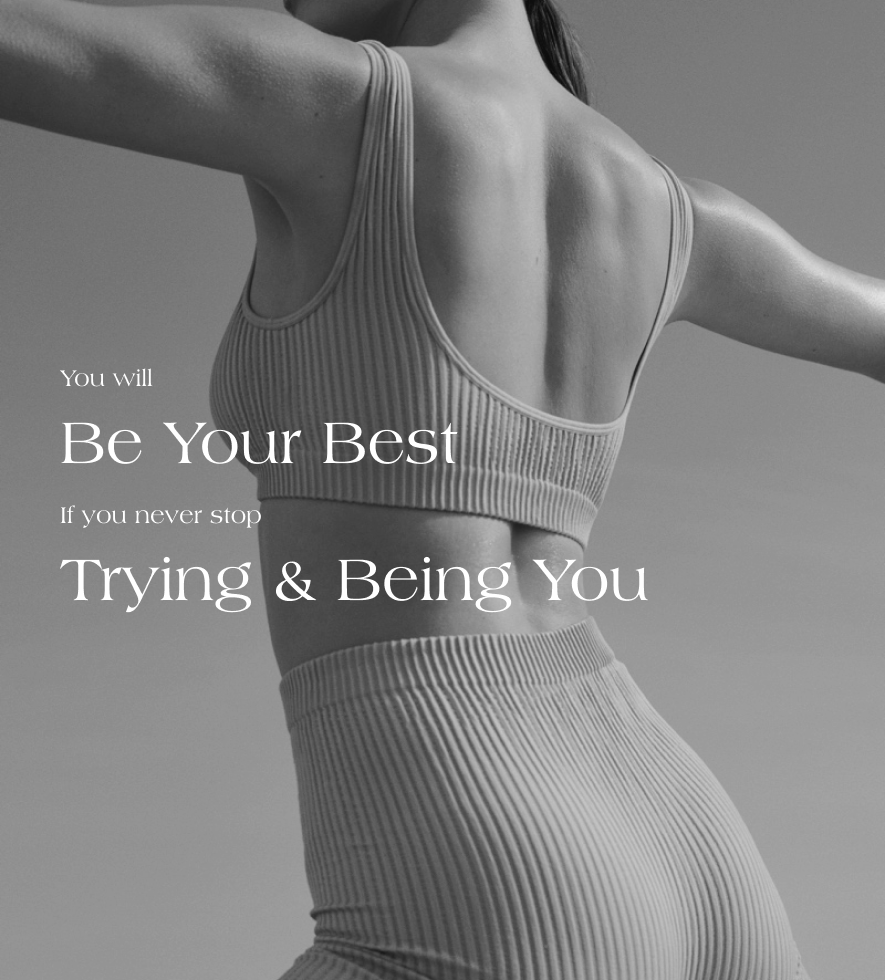
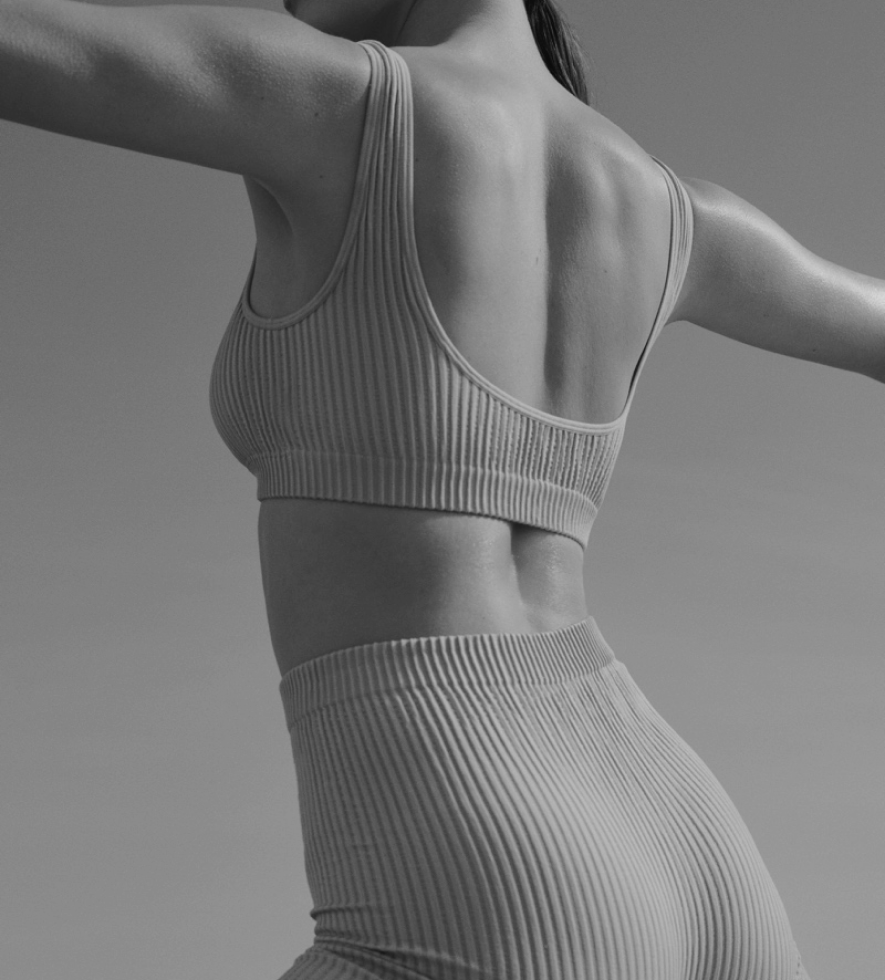
animation

diff --git a/src/pages/home.js b/src/pages/home.js
@@ -26,9 +26,9 @@ const Home = () => {
           <div className="row">
             <div className="col-8 d-flex">
               <img src="./images/home/logo-icon.svg" alt="logo" loading="lazy"/>
-              <div className="info-content heading_6">
+              <div className="info-content medium_text">
                 Hello, My name is
-                <div className="info-name heading_3">
+                <div className="info-name heading_4">
                   Nguyen Thuy Duong
                 </div>
               </div>
@@ -39,8 +39,10 @@ const Home = () => {
           </div>
         </div>
         <div className="page-element container-fluid showcase-img">
-            <div className="img-container sentence-container">
-              <img src="./images/home/Showcase.png" alt="showcase" loading="lazy"/>
+            <div className="img-container">
+              <div className="sentence-container">
+                <img src="./images/home/Showcase.png" alt="showcase" loading="lazy"/>
+              </div>
               <div className="img-text d-flex running-sentence">
                 <div className="heading_3">
                   Hello!
@@ -62,17 +64,17 @@ const Home = () => {
           <div className="container-fluid">
             <div className="row">
               <div className="col-5 d-flex">
-                <div className="info-content medium_text">
+                <div className="info-content body_text">
                   19/08/1998 __________
-                  <div className="info-lage heading_4">
+                  <div className="info-lage heading_5">
                     I’m UX/UI Designer
                   </div>
                 </div>
               </div>
-              <div className="col-1  medium_text">
+              <div className="col-1  body_text">
                 April/2023
               </div>
-              <div className="col-6 text-right medium_text">
+              <div className="col-6 text-right body_text">
                 Don't just imagine, create
               </div>
             </div>

diff --git a/src/pages/alio.js b/src/pages/alio.js
@@ -8,8 +8,14 @@ const Alio = () => {
                     <div className="col-6">
                         <img className="w-100" src="./images/Pj02_yoga/line1-01.png" alt="#" loading="lazy"/>
                     </div>
-                    <div className="col-6">
+                    <div className="col-6 r1-right">
                         <img className="w-100" src="./images/Pj02_yoga/line1-02.png" alt="#" loading="lazy"/>
+                        <div className="slide-content">
+                            <div className="heading_5">You will</div>
+                            <div className="heading_1">Be Your Best</div>
+                            <div className="heading_5">If you never stop</div>
+                            <div className="heading_1">Trying & Being You</div>
+                        </div>
                     </div>
                 </div>
             </div>

diff --git a/src/styles/alio.scss b/src/styles/alio.scss
@@ -1,6 +1,15 @@
 .alio-showcase{
   background-color: $primary_color;
 }
+.r1-right{
+  position: relative;
+  .slide-content{
+    position: absolute;
+    top:40%;
+    left: 10%;
+    color: #fff;
+  }
+}
 .r2-left{
   position: relative;
   background-color: #F5EAE0;
@@ -19,5 +28,22 @@
   max-width:60em;
   .heading_6{
     margin-bottom: 30px;
+  }
+}
+
+.slide-content {
+  animation: slide-in-left 2s ease-out forwards;
+  opacity: 0;
+}
+
+@keyframes slide-in-left {
+  from {
+    transform: translateX(-15%);
+    opacity: 0;
+  }
+
+  to {
+    transform: translateX(0%);
+    opacity: 1;
   }
 }

diff --git a/src/styles/home.scss b/src/styles/home.scss
@@ -119,22 +119,26 @@
 }
 .sentence-container {
   width: 100%;
-  height: 420px;
+  height: 430px;
   overflow: hidden;
+  display: flex;
+  justify-content: center;
+  align-items: center;
 }
 .running-sentence {
-  animation: running-sentence 20s linear infinite;
+  animation: running-sentence 10s linear infinite;
   white-space: nowrap;
 }
 
 @keyframes running-sentence {
   0% {
-    transform: translateX(20%);
+    transform: translateX(10%);
   }
   100% {
-    transform: translateX(-100%);
+    transform: translateX(-10%);
   }
 }
+
 
 @media only screen and (max-width: 1200px) {
   body {

diff --git a/src/styles/app.scss b/src/styles/app.scss
@@ -6,7 +6,7 @@ $heading_1: 60px;
 $heading_2: 46px;
 $heading_3: 38px;
 $heading_4: 32px;
-$heading_5: 28px;
+$heading_5: 24px;
 $heading_6: 20px;
 $medium_text: 16px;
 $body_text: 14px;
@@ -64,7 +64,7 @@ body {
 .heading_5 {
   font-family: 'AmericanaBT', serif;
   font-size: $heading_5;
-  line-height: 32px;
+  line-height: 30px;
 }
 .heading_6 {
   font-family: 'AmericanaBT', serif;
